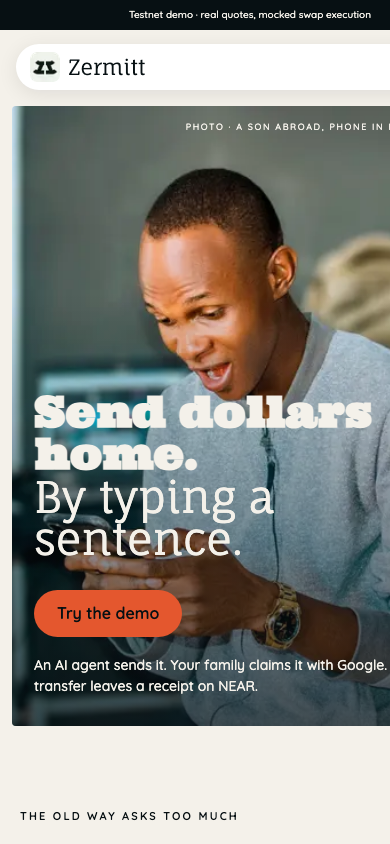
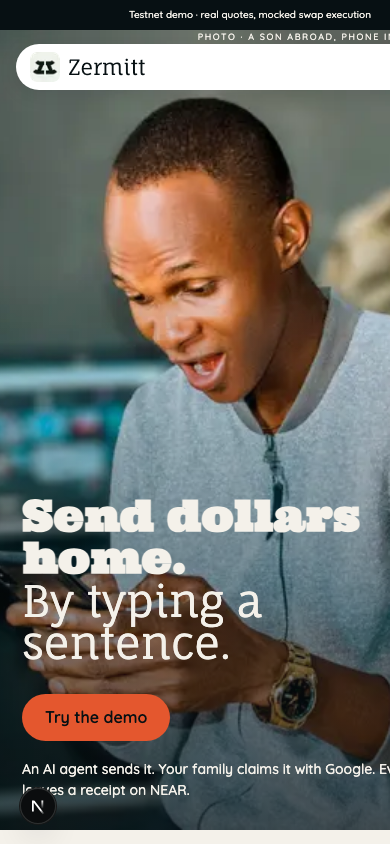
Make landing hero fill the viewport

diff --git a/app/globals.css b/app/globals.css
@@ -9,3 +9,6 @@ body:has(.landing) .app-footer{display:none}
 body{overflow-x:hidden}.container{width:min(calc(100% - 32px),520px)}
 @media(max-width:760px){.site-nav{justify-content:space-between}.nav-actions{margin-left:0}.nav-actions .btn{padding-inline:14px}}
 @media(max-width:760px){.container{width:auto!important;margin-inline:16px!important}.nav-actions{display:none}.site-nav{width:calc(100% - 32px)}.slim-footer{overflow:hidden}.slim-footer small{max-width:320px}}
+.landing .photo-hero{width:100%;max-width:none;min-height:calc(100svh - 30px);margin-top:-98px;border-radius:0}
+.landing .photo-hero .hero-copy{padding-top:110px}
+@media(max-width:760px){.landing .photo-hero{width:100%;min-height:calc(100svh - 30px);margin-top:-90px}.landing .photo-hero .hero-copy{padding-top:100px}}
